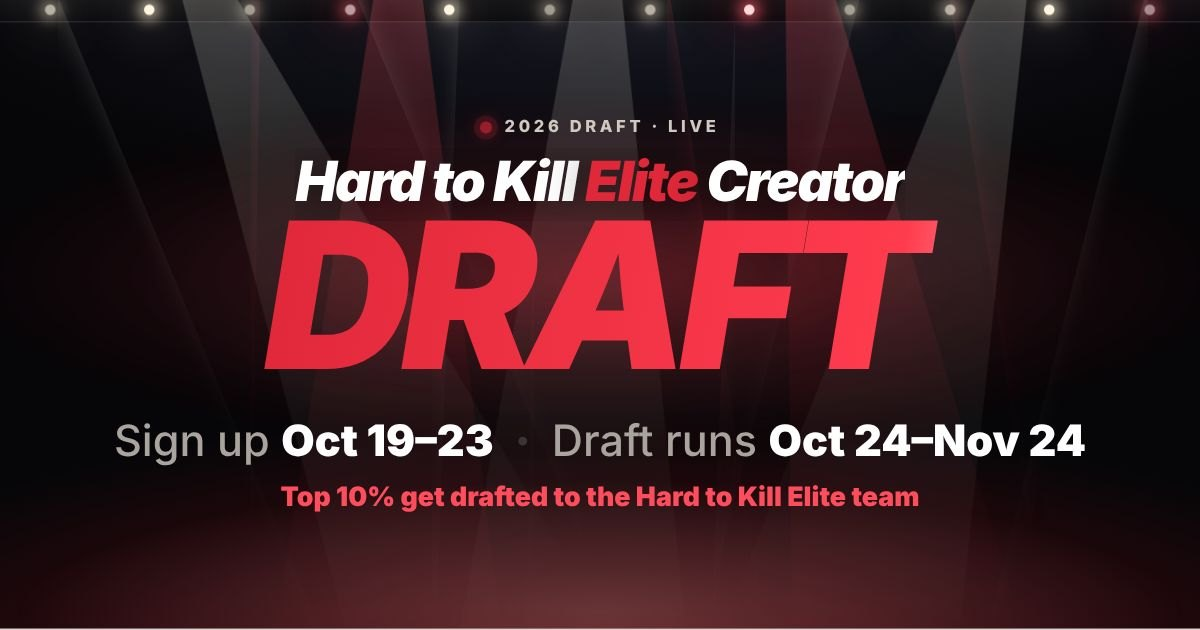
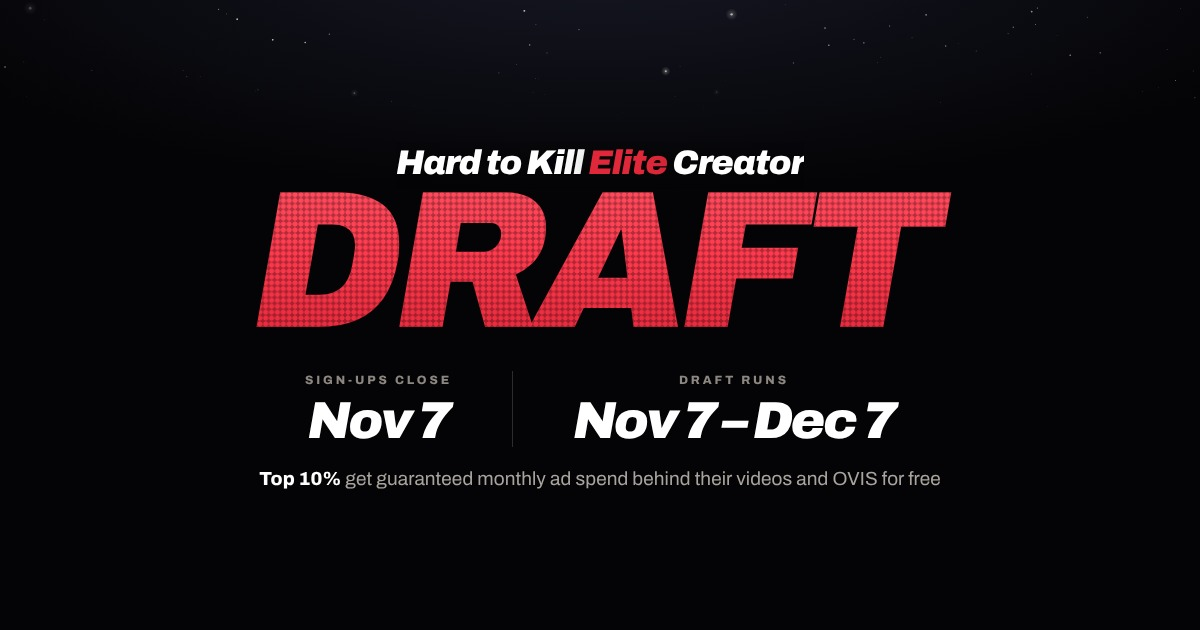
Add files via upload

diff --git a/index.html b/index.html
@@ -4,12 +4,12 @@
 <title>Hard to Kill Elite Creator Draft</title>
 <meta charset="utf-8">
 <meta name="viewport" content="width=device-width,initial-scale=1,viewport-fit=cover">
-<meta name="description" content="Sign up Oct 19–23 · Draft runs Oct 24–Nov 24 · Top 10% get drafted to the Hard to Kill Elite team.">
+<meta name="description" content="Sign-ups close Nov 7 · Draft runs Nov 7–Dec 7 · Top 10% get guaranteed monthly ad spend and OVIS free.">
 <meta name="theme-color" content="#e0283a">
 <meta property="og:type" content="website">
 <meta property="og:site_name" content="Hard to Kill Creators">
 <meta property="og:title" content="Hard to Kill Elite Creator Draft">
-<meta property="og:description" content="Sign up Oct 19–23 · Draft runs Oct 24–Nov 24 · Top 10% get drafted to the Hard to Kill Elite team.">
+<meta property="og:description" content="Sign-ups close Nov 7 · Draft runs Nov 7–Dec 7 · Top 10% get guaranteed monthly ad spend and OVIS free.">
 <meta property="og:image" content="https://hardtokill-draft.vercel.app/og.jpg">
 <meta property="og:image:width" content="1200"><meta property="og:image:height" content="630">
 <meta property="og:url" content="https://hardtokill-draft.vercel.app/">
@@ -797,6 +797,103 @@ p,li,.lead{text-wrap:pretty}
   .facts2 span{white-space:nowrap!important}
   .truss{height:16px}.truss i{width:7px;height:7px}
 }
+.gallery{grid-template-columns:repeat(2,minmax(0,1fr))}
+@media (min-width:821px){.gallery{max-width:640px;margin-inline:auto}}
+.ideas p.more{font-size:15px;line-height:1.5;font-weight:500;color:#5a5551;max-width:56ch}
+.ideas p.more b{font-weight:700;color:var(--fg)}
+
+/* v70: hero dates, numbered steps, spacing polish */
+.dates{display:flex;justify-content:center;align-items:flex-end;gap:clamp(22px,4vw,56px);text-align:center;margin-top:6px}
+.dates>div{display:grid;gap:6px;justify-items:center}
+.dates>div+div{border-left:1px solid rgba(255,255,255,.2);padding-left:clamp(22px,4vw,56px)}
+.dates small{font-size:clamp(11px,1.2vw,13px);font-weight:700;letter-spacing:.18em;text-transform:uppercase;color:#a9a49e}
+.dates b{font-style:italic;font-weight:900;letter-spacing:-.045em;line-height:1;font-size:clamp(30px,5.4vw,60px);color:#fff;white-space:nowrap}
+.facts2.perk{margin-top:4px}
+.facts2.perk span{white-space:normal;text-align:center;text-wrap:balance;max-width:44ch}
+.hero{gap:clamp(14px,2vw,22px)}
+@media (max-height:440px) and (min-aspect-ratio:3/2){.dates b{font-size:min(5vw,9vh)}.dates small{font-size:min(1.4vw,2.6vh)}.facts2.perk{font-size:min(2vw,4vh)}}
+.tips.nl{counter-reset:n}
+.tips.nl li{counter-increment:n}
+.tips.nl li::before{content:counter(n);background:none;width:auto;height:auto;border-radius:0;top:0;left:0;color:var(--red);font-style:italic;font-weight:900;font-size:1em;line-height:inherit}
+.tips.nl li{padding-left:26px}
+section.s h2+.lead{margin-bottom:6px}
+.vcard{padding:clamp(24px,3.2vw,36px)}
+.vcard .tips,.vcard .tips.wide{padding-left:44px}
+.vcard.wide{gap:28px}
+.ideas{gap:16px}
+.ideas p.more{margin-top:2px}
+.bonus{margin-top:2px}
+.cards{gap:clamp(14px,2vw,22px)}
+.dates small{white-space:nowrap}
+@media (max-width:540px){.dates small{letter-spacing:.1em;font-size:10.5px}.dates{gap:20px}.dates>div+div{padding-left:20px}}
+@media (min-width:900px){.cards{grid-template-columns:repeat(3,minmax(0,1fr))}.vcard.wide .tips.wide.nl{grid-template-columns:repeat(3,minmax(0,1fr))}}
+.nocount{max-width:56ch}
+.arena .facts2.perk{margin-top:10px;color:#cfc9c2;font-size:clamp(16px,1.6vw,18px);font-weight:400;letter-spacing:.005em;line-height:1.5}
+.arena .facts2.perk b{color:#fff;font-weight:800}
+.arena .facts2.perk span{max-width:38ch}
+
+/* v80: minimal premium hero */
+.arena .beam.b1,.arena .beam.b5,.arena .beam.b2,.arena .beam.b4{display:none}
+.arena .beam.b3{opacity:.32}
+.arena .haze{opacity:.5}
+.arena .halo{opacity:.7}
+.arena .hero{gap:0;padding-block:clamp(88px,15vh,150px) clamp(72px,11vh,120px);align-items:center}
+.arena .d-pre{font-size:clamp(22px,3.4vw,40px);letter-spacing:-.03em;opacity:.95}
+.arena .draft-h{margin-bottom:clamp(36px,6vh,64px)}
+.arena .dates{margin-top:0;gap:clamp(28px,5vw,72px)}
+.arena .dates>div+div{padding-left:clamp(28px,5vw,72px);border-left-color:rgba(255,255,255,.16)}
+.arena .dates small{font-size:clamp(10.5px,1vw,12px);letter-spacing:.24em;color:#8d8781}
+.arena .dates b{font-size:clamp(32px,5.6vw,64px)}
+.arena .facts2.perk{margin-top:clamp(22px,3.4vh,34px);color:#a9a49e;font-size:clamp(15px,1.4vw,17px)}
+.arena .facts2.perk b{color:#fff;font-weight:700}
+.arena .row{margin-top:clamp(44px,8vh,80px)}
+.arena .cd-wrap{gap:14px}
+.arena .cd-lbl{font-size:11px;font-weight:700;letter-spacing:.24em;text-transform:uppercase;color:#8d8781}
+.arena .cd{gap:0}
+.arena .cd div{background:none;border:0;box-shadow:none;border-radius:0;padding:0 clamp(16px,2.6vw,30px);min-width:0}
+.arena .cd div+div{border-left:1px solid rgba(255,255,255,.14)}
+.arena .cd b{font-size:clamp(28px,3.6vw,40px);font-weight:800;letter-spacing:-.03em}
+.arena .cd small{margin-top:6px;font-size:9.5px;letter-spacing:.2em;color:#6f6a65}
+@media (max-width:540px){.arena .cd div{min-width:0;padding:0 14px}.arena .hero{padding-block:84px 64px}}
+.arena .beam.b3{display:none}
+.arena .facts2.perk span{max-width:62ch}
+@media (max-width:540px){.arena .facts2.perk span{max-width:30ch}}
+.arena .facts2.perk span{max-width:80ch}
+@media (max-width:540px){
+  .arena .facts2.perk span{max-width:30ch}
+  .arena .dates{gap:16px}
+  .arena .dates>div+div{padding-left:16px}
+  .arena .dates b{font-size:26px}
+  .arena .dates small{letter-spacing:.14em;font-size:9.5px}
+}
+
+/* v90: starlit roof + LED scoreboard DRAFT */
+.arena{background:radial-gradient(90% 55% at 50% -8%,#161824 0%,transparent 70%),#040406}
+.arena .halo,.arena .floor,.arena .haze,.arena .flashes{display:none}
+.stars{position:absolute;left:0;top:0;width:100%;height:160px;display:block;-webkit-mask-image:linear-gradient(#000 0%,#000 55%,transparent 100%);mask-image:linear-gradient(#000 0%,#000 55%,transparent 100%)}
+.arena .d-big{
+  font-size:clamp(88px,22vw,232px);
+  --px:max(4px,.03em);
+  background-image:
+    radial-gradient(circle at 50% 50%,rgba(0,0,0,0) 0 56%,rgba(0,0,0,.3) 66%),
+    linear-gradient(180deg,#ff4d5f 0%,#ff3a4e 45%,#e3283b 100%);
+  background-size:var(--px) var(--px),100% 100%;
+  background-position:0 0,0 0;
+  background-repeat:repeat,no-repeat;
+  -webkit-background-clip:text;background-clip:text;color:transparent;-webkit-text-fill-color:transparent;
+  animation:rise 1.1s var(--ease) .12s both;
+}
+@media (prefers-reduced-motion:reduce){.arena .d-big{animation:none}}
+@media (max-width:540px){.arena .d-big{font-size:25vw;--px:max(3px,.034em)}}
+.arena .hero{padding-block:clamp(130px,22vh,210px) clamp(56px,8vh,96px)}
+@media (max-width:540px){.arena .hero{padding-block:120px 56px}}
+
+/* v95: step 3 phones centered at every width */
+.vcard.wide .gallery{display:grid;grid-template-columns:repeat(2,minmax(0,1fr));max-width:640px;margin-inline:auto;justify-items:center;justify-content:center;gap:clamp(16px,4vw,56px);overflow:visible;padding-bottom:0}
+.vcard.wide .gi{flex:none;min-width:0}
+.vcard.wide .gi .phone{zoom:.82}
+@media (max-width:820px){.vcard.wide .gallery{max-width:520px}.vcard.wide .gi .phone{zoom:.64}}
+@media (max-width:540px){.vcard.wide .gallery{gap:12px}.vcard.wide .gi .phone{zoom:.47}}
 </style>
 </head>
 <body>
@@ -812,26 +909,23 @@ p,li,.lead{text-wrap:pretty}
 
 <section class="arena" id="arena">
   <div class="stage" aria-hidden="true">
-    <div class="truss"><i></i><i></i><i></i><i></i><i></i><i></i><i></i><i></i><i></i><i></i><i></i><i></i></div>
+    <canvas class="stars" id="stars"></canvas>
+    
     <div class="beam b1"></div><div class="beam b2"></div><div class="beam b3"></div><div class="beam b4"></div><div class="beam b5"></div>
     <div class="haze"></div>
     <div class="halo"></div>
     <div class="floor"></div>
-    <div class="flashes" id="flashes"></div>
   </div>
 <div class="wrap">
   <div class="hero">
-    <span class="members fade">🔒 Only for the Hard to Kill Creator team</span>
-    <span class="dnight fade"><i></i>2026 Draft · Live</span>
     <h1 class="draft-h" aria-label="Hard to Kill Elite Creator Draft">
       <span class="line"><span class="mv" id="mv1"><span class="in d-pre">Hard to Kill <span class="red">Elite</span> Creator</span></span></span>
       <span class="line l2 d-line"><span class="mv" id="mv2"><span class="in d-big">Draft</span></span></span>
     </h1>
-    <p class="cash fade">Turn the UGC videos you already make into extra cash flow.</p>
-    <p class="facts2 fade"><span>Sign up <b>Oct&nbsp;19–23</b></span><i>·</i><span>Draft runs <b>Oct&nbsp;24–Nov&nbsp;24</b></span><i>·</i><span><b class="red">Top 10% get drafted to the Hard to Kill Elite team</b></span></p>
+    <div class="dates fade"><div><small>Sign-ups close</small><b>Nov&nbsp;7</b></div><div><small>Draft runs</small><b>Nov&nbsp;7 – Dec&nbsp;7</b></div></div>
+    <p class="facts2 perk fade"><span><b>Top 10%</b> get guaranteed monthly ad spend behind their videos and OVIS for free</span></p>
     <div class="row fade">
       <div class="cd-wrap">
-        <span class="otc"><i></i>On the clock</span>
         <span class="cd-lbl" id="cd-lbl">Sign-ups open in</span>
         <div class="cd">
           <div><b id="cd-d"><span>00</span></b><small>Days</small></div>
@@ -866,9 +960,9 @@ p,li,.lead{text-wrap:pretty}
     <span class="kick">Top 10% only</span>
     <h2>What Does a Hard to Kill <span>Elite Creator</span> Get?</h2>
     <div class="perks4">
-      <div class="pk"><span class="num">01</span><h3>Guaranteed paid ad spend on your videos.</h3><p>Every month. A company that bets on you.</p></div>
+      <div class="pk"><span class="num">01</span><h3>Guaranteed monthly ad spend.</h3><p>Behind your videos.</p></div>
       <div class="pk"><span class="num">02</span><h3>OVIS free, indefinitely.</h3><p>As long as you hit the Elite posting schedule.</p></div>
-      <div class="pk"><span class="num">03</span><h3>A sales team closing brand deals for you.</h3><p>They find the brands and close the deals. You create.</p></div>
+      <div class="pk"><span class="num">03</span><h3>A sales team closes brand deals for you.</h3><p>They find the brands. You create.</p></div>
       <div class="pk"><span class="num">04</span><h3>Base pay + bonuses.</h3><p>Starts after 3 months as Elite.</p></div>
     </div>
   </div>
@@ -877,13 +971,13 @@ p,li,.lead{text-wrap:pretty}
 <div class="wrap">
   <section class="s" id="join">
     <h2>How to <span class="red">Enter.</span></h2>
-    <p class="lead"><b>Only Hard to Kill community creators can enter.</b> This one's just for us, and everyone on the team is welcome.</p>
+    <p class="lead"><b>Only for Hard to Kill community creators.</b> Everyone on the team is welcome.</p>
 
     <div class="vgrid">
 
       <figure class="vcard">
         <figcaption><span class="vn">1</span><div><b>Create a new Instagram account.</b></div></figcaption>
-        <ul class="tips"><li>Brand-new and <b>public</b>. Not your personal page.</li><li>Example: Jordan → <b>@jordan.htk</b></li><li>Go Elite and it becomes your <b>sponsored account</b>.</li></ul>
+        <ul class="tips nl"><li>Brand new and <b>public</b>, not your personal page.</li><li>Example: Jordan → <b>@jordan.htk</b></li><li>Go Elite and it becomes your <b>sponsored account</b>.</li></ul>
         <div class="stagex"><div class="phone"><div class="screen light">
           <div class="sbar"><span>9:41</span><span class="sb-r"><i></i><i></i><i></i></span></div><div class="island"></div>
           <div class="ig-top"><b>jordan.htk</b><span>⌄</span></div>
@@ -901,7 +995,7 @@ p,li,.lead{text-wrap:pretty}
 
       <figure class="vcard">
         <figcaption><span class="vn">2</span><div><b>Say you're in on Discord.</b></div></figcaption>
-        <ul class="tips"><li>Open Discord → <b>#elite</b>.</li><li>Post <b>I'm in ✅ @yourhandle</b></li><li>Sign-ups open <b>Mon, Oct&nbsp;19, 5:00&nbsp;PM ET</b> and close <b>Fri, Oct&nbsp;23, 11:59&nbsp;PM ET.</b> The draft starts <b>Sat, Oct&nbsp;24, 8:00&nbsp;AM ET</b> and runs one month. Points count from then.</li></ul>
+        <ul class="tips nl"><li>Open Discord → <b>#elite</b>.</li><li>Post <b>I'm in ✅ @yourhandle</b></li><li>Sign-ups close <b>Sat, Nov&nbsp;7, 11:59&nbsp;PM ET</b>. The draft runs <b>Nov&nbsp;7–Dec&nbsp;7</b>.</li></ul>
         <div class="copychip"><span id="imin2">I'm in ✅</span><button class="copy" data-copy="imin2" type="button">Copy</button></div>
         <div class="stagex"><div class="phone"><div class="screen dark chat">
           <div class="sbar"><span>9:41</span><span class="sb-r"><i></i><i></i><i></i></span></div><div class="island"></div>
@@ -919,7 +1013,7 @@ p,li,.lead{text-wrap:pretty}
 
       <figure class="vcard wide">
         <figcaption class="top"><span class="vn">3</span><div><b>Post about OVIS on Instagram.</b></div></figcaption>
-        <ul class="tips wide four"><li>From <b>Sat, Oct&nbsp;24</b> through <b>Nov&nbsp;24</b></li><li>Every post is about <b>OVIS</b></li><li>Ask viewers to comment <b>"OVIS"</b></li><li>Add <b>#ad</b> to every post</li></ul>
+        <ul class="tips wide four"><li>Post about <b>OVIS</b> and ask viewers to comment <b>"OVIS"</b></li><li>Post <b>1–3 Reels</b> and <b>1–3 Stories</b> a week to stay in the draft</li></ul>
         <div class="gallery">
           <div class="gi">
             <div class="phone"><div class="screen reel">
@@ -929,9 +1023,9 @@ p,li,.lead{text-wrap:pretty}
               <div class="reel-ugc" role="img" aria-label="Creator talking to camera"></div>
               <div class="reel-hook"><span>this AI grows your IG</span><span>while you sleep 🤯</span></div>
               <div class="reel-rail"><span><svg viewBox="0 0 24 24" width="22" height="22" fill="none" stroke="currentColor" stroke-width="2"><path d="M12 20s-7-4.5-7-10a4 4 0 0 1 7-2.6A4 4 0 0 1 19 10c0 5.5-7 10-7 10z"/></svg><small>2.4K</small></span><span><svg viewBox="0 0 24 24" width="22" height="22" fill="none" stroke="currentColor" stroke-width="2" stroke-linejoin="round"><path d="M21 12a8 8 0 0 1-11.6 7.1L4 20.5l1.4-5A8 8 0 1 1 21 12z"/></svg><small>318</small></span><span><svg viewBox="0 0 24 24" width="22" height="22" fill="none" stroke="currentColor" stroke-width="2" stroke-linejoin="round"><path d="M22 3 11 14"/><path d="M22 3 15 21l-4-7-7-4z"/></svg><small>96</small></span></div>
-              <div class="reel-cap"><b>jordan.htk</b><span>Comment <b>OVIS</b> for the link 👇 #ad</span></div>
+              <div class="reel-cap"><b>jordan.htk</b><span>Comment <b>OVIS</b> for the link 👇</span></div>
             </div></div>
-            <div class="gl"><b>Reel</b><span>Every day</span></div>
+            <div class="gl"><b>Reel</b><span>1–3 a week</span></div>
           </div>
           <div class="gi">
             <div class="phone"><div class="screen story">
@@ -945,32 +1039,20 @@ p,li,.lead{text-wrap:pretty}
               <div class="st-sticker glass">Comment <b>OVIS</b> on my reel 👇</div>
               <div class="st-input">Send message</div>
             </div></div>
-            <div class="gl"><b>Story</b><span>Every other day</span></div>
-          </div>
-          <div class="gi">
-            <div class="phone"><div class="screen light feed">
-              <div class="sbar"><span>9:41</span><span class="sb-r"><i></i><i></i><i></i></span></div><div class="island"></div>
-              <div class="fd-head"><span class="av sm g1">J</span><b>jordan.htk</b><span class="plat ig inhead">📸 Instagram</span></div>
-              <div class="fd-slide photo"><span class="fd-n">1/5</span><span class="fd-cap2"><span>5 ways an AI agent</span><span>grows your IG 📈</span></span></div>
-              <div class="fd-dots"><i class="on"></i><i></i><i></i><i></i><i></i></div>
-              <div class="fd-acts"><svg viewBox="0 0 24 24" width="22" height="22" fill="none" stroke="currentColor" stroke-width="2"><path d="M12 20s-7-4.5-7-10a4 4 0 0 1 7-2.6A4 4 0 0 1 19 10c0 5.5-7 10-7 10z"/></svg><svg viewBox="0 0 24 24" width="22" height="22" fill="none" stroke="currentColor" stroke-width="2" stroke-linejoin="round"><path d="M21 12a8 8 0 0 1-11.6 7.1L4 20.5l1.4-5A8 8 0 1 1 21 12z"/></svg><svg viewBox="0 0 24 24" width="22" height="22" fill="none" stroke="currentColor" stroke-width="2" stroke-linejoin="round"><path d="M22 3 11 14"/><path d="M22 3 15 21l-4-7-7-4z"/></svg></div>
-              <div class="fd-cap"><b>jordan.htk</b> Comment <b>OVIS</b> for the link 👇 #ad</div>
-              <div class="tabbar glass"><i class="ti h"></i><i class="ti s"></i><i class="ti p"></i><i class="ti r"></i><i class="ti me"></i></div>
-            </div></div>
-            <div class="gl"><b>Carousel</b><span>Every week</span></div>
+            <div class="gl"><b>Story</b><span>1–3 a week</span></div>
           </div>
         </div>
         <div class="ideas">
-          <p><b>Ideas come from us.</b> We'll drop them in Discord and the Creator Guide. Then make them your own.</p>
+          <p><b>Here are some good ideas.</b> Also check the <b>Creator Guide</b> in Discord for more, or come up with your own.</p>
           <div class="ichips"><span>Skits</span><span>Behind the scenes</span><span>Vlogs</span><span>Street interviews</span><span>Tutorials</span><span>Trends</span><span>Anything</span></div>
-          <p class="more">The more you post, the more chances you have to win.</p>
+          <p class="more">Stay active with 1–3 Reels a week. The more you post, the more people see your call to action and comment <b>"OVIS"</b>, and the more chances you have to win.</p>
         </div>
         <p class="bonus"><b>Bonus:</b> submit your Reels on Trybe and we'll repost them.</p>
       </figure>
 
       <figure class="vcard wide">
         <figcaption><span class="vn">4</span><div><b>Getting "OVIS" comments? Send them to a coach.</b></div></figcaption>
-        <ul class="tips wide"><li>Screenshot the <b>"OVIS" comments</b> on any of your posts.</li><li>Send the screenshot <b>privately to a Hard to Kill coach</b> on Discord.</li><li>We reach out to everyone who commented. <b>You get the points and the</b> <span class="money">$ commission</span>.</li></ul>
+        <ul class="tips wide nl"><li>Screenshot your <b>"OVIS" comments</b>.</li><li>Send it <b>privately to a Hard to Kill coach</b> on Discord.</li><li>We reach out to them. <b>You get the points and the</b> <span class="money">$ commission</span>.</li></ul>
         <div class="pair">
           <div class="phone"><div class="screen light cmts">
             <div class="sbar"><span>9:41</span><span class="sb-r"><i></i><i></i><i></i></span></div><div class="island"></div>
@@ -1006,12 +1088,12 @@ p,li,.lead{text-wrap:pretty}
 
     <div class="score" id="score">
       <h2>How Winners <span class="red">Are Picked.</span></h2>
-      <p class="lead">Two things count. <b>The top 10% of creators with the most points on Nov&nbsp;24 get drafted to the Hard to Kill Elite team.</b> To qualify, follow every step above from start to finish.</p>
+      <p class="lead"><b>The top 10% with the most points on Dec&nbsp;7 get drafted to the Hard to Kill Elite team.</b> Follow every step above to qualify.</p>
       <div class="pts2" id="ladder">
         <div class="p2"><span class="what">Every <b>"OVIS"</b> comment</span><b class="num">1</b><small>point</small></div>
         <div class="p2 hot"><span class="what">Every <b>sale</b></span><b class="num">10</b><small>points</small></div>
       </div>
-      <p class="nocount">When someone who commented on your post buys, <b>you get the points and the</b> <span class="money">$ commission</span>. Likes, shares, views and other comments don't count. No bots. Keep it clean. Draft picks announced <b>Nov&nbsp;25</b>.</p>
+      <p class="nocount">When someone who commented on your post buys, <b>you get the points and the</b> <span class="money">$ commission</span>. Only "OVIS" comments and sales count. No bots. Draft picks announced <b>Dec&nbsp;8</b>.</p>
     </div>
   </section>
 
@@ -1020,13 +1102,8 @@ p,li,.lead{text-wrap:pretty}
     <p class="lead">Win or lose, <b>you're building leverage.</b></p>
     <div class="cards">
       <div class="card">
-        <h3>Run the playbook of a top UGC creator.</h3>
-        <p><b>Poppi, Gymshark and Bloom</b> run some of the most successful UGC campaigns out there. This playbook is modeled on what their creators do.</p>
-      </div>
-      <div class="card">
-        <h3><span class="red">+60%</span> engagement on focused creator accounts.</h3>
-        <p>More engagement means more brands paying attention.</p>
-        <span class="credit">As reported in <em>Forbes</em></span>
+        <h3>Learn the top creator playbook.</h3>
+        <p>Post consistently, ask for the comment, and log your wins. That simple loop is what builds a creator brands want to work with.</p>
       </div>
       <div class="card">
         <h3>The Omni<span class="sky-t">World</span> app, free.</h3>
@@ -1047,7 +1124,7 @@ p,li,.lead{text-wrap:pretty}
 
   <footer>
     <div class="mark" aria-label="hardtokill creators"><span class="a">hardtokill</span><span class="b">creators</span></div>
-    <p class="mission">The community where creators build <b>leverage</b> and a <b>resume that gets them paid.</b> We give you exactly what brands look for. That's your unfair advantage.</p>
+    <p class="mission">The community where creators build <b>leverage</b> and a <b>resume that gets them paid.</b> </p>
   </footer>
 </div>
 
@@ -1059,11 +1136,9 @@ p,li,.lead{text-wrap:pretty}
   function clamp(v,a,b){return Math.max(a,Math.min(b,v))}
   function pad(n){return String(n).padStart(2,"0")}
   var ms=[
-    {t:new Date("2026-10-19T17:00:00-04:00"),l:"Sign-ups open in"},
-    {t:new Date("2026-10-23T23:59:00-04:00"),l:"Sign-ups close in"},
-    {t:new Date("2026-10-24T08:00:00-04:00"),l:"The draft starts in"},
-    {t:new Date("2026-11-24T08:00:00-05:00"),l:"The draft ends in"},
-    {t:new Date("2026-11-25T12:00:00-05:00"),l:"Draft picks announced in"}
+    {t:new Date("2026-11-07T23:59:00-05:00"),l:"Sign-ups close in"},
+    {t:new Date("2026-12-07T23:59:00-05:00"),l:"The draft ends in"},
+    {t:new Date("2026-12-08T12:00:00-05:00"),l:"Draft picks announced in"}
   ];
   function set(id,val){var s=$(id).firstChild;if(s.textContent===val)return;s.textContent=val;if(!reduce){s.classList.remove("tick");void s.offsetWidth;s.classList.add("tick")}}
   function tick(){
@@ -1093,6 +1168,26 @@ p,li,.lead{text-wrap:pretty}
   }
   function onScroll(){if(!ticking){ticking=true;requestAnimationFrame(frame)}}
   addEventListener("scroll",onScroll,{passive:true});frame();
+  
+  (function(){
+    var c=document.getElementById("stars");if(!c||!c.getContext)return;
+    var x=c.getContext("2d"),stars=[],W=0,H=0,dpr=Math.min(2,window.devicePixelRatio||1),vis=true,raf=0,last=0;
+    function mk(t0){var big=Math.random()<.08;return{x:Math.random()*W,t:t0,v:.006+Math.random()*.012,r:big?1.2+Math.random()*.5:.45+Math.random()*.6,a:.45+Math.random()*.55,s:.4+Math.random()*1.2,p:Math.random()*6.28,g:big,w:Math.random()<.18}}
+    function size(){var ar=document.getElementById("arena"),t=document.querySelector(".arena .draft-h");if(ar&&t){var hh=t.getBoundingClientRect().top-ar.getBoundingClientRect().top-6;c.style.height=Math.max(70,Math.round(hh))+"px"}var r=c.getBoundingClientRect();W=r.width;H=r.height;c.width=Math.round(W*dpr);c.height=Math.round(H*dpr);x.setTransform(dpr,0,0,dpr,0,0);
+      var n=Math.round(Math.min(260,Math.max(70,W*H/1500)));stars=[];for(var i=0;i<n;i++)stars.push(mk(Math.random()));draw(0)}
+    function draw(ts){x.clearRect(0,0,W,H);
+      for(var i=0;i<stars.length;i++){var s=stars[i],k=s.t,y=k*H,sc=1-.65*k,fade=k<.08?k/.08:(1-Math.pow(k,3)),tw=reduce?1:(.62+.38*Math.sin(ts/1000*s.s+s.p)),al=s.a*tw*fade,r=s.r*sc;
+        if(al<=0)continue;
+        if(s.g){var g=x.createRadialGradient(s.x,y,0,s.x,y,r*5);g.addColorStop(0,"rgba(255,255,255,.5)");g.addColorStop(1,"rgba(255,255,255,0)");x.globalAlpha=al*.8;x.fillStyle=g;x.beginPath();x.arc(s.x,y,r*5,0,6.283);x.fill()}
+        x.globalAlpha=al;x.fillStyle=s.w?"#ffe9cf":"#ffffff";x.beginPath();x.arc(s.x,y,r,0,6.283);x.fill()}
+      x.globalAlpha=1}
+    function loop(ts){if(!vis||reduce)return;var dt=last?Math.min(.1,(ts-last)/1000):0;last=ts;
+      for(var i=0;i<stars.length;i++){var s=stars[i];s.t+=s.v*dt;if(s.t>=1){stars[i]=mk(0)}}
+      draw(ts);raf=requestAnimationFrame(loop)}
+    size();addEventListener("load",size);if(document.fonts&&document.fonts.ready)document.fonts.ready.then(size);if(!reduce)raf=requestAnimationFrame(loop);
+    var rt;addEventListener("resize",function(){clearTimeout(rt);rt=setTimeout(size,150)});
+    if("IntersectionObserver" in window){new IntersectionObserver(function(es){vis=es[0].isIntersecting;last=0;if(vis&&!reduce){cancelAnimationFrame(raf);raf=requestAnimationFrame(loop)}}).observe(c)}
+  })();
   (function(){var f=$("flashes");if(!f||matchMedia("(prefers-reduced-motion: reduce)").matches)return;
     function pop(){if(document.hidden||window.scrollY>innerHeight){return setTimeout(pop,900)}
       var n=1+Math.floor(Math.random()*2);for(var k=0;k<n;k++){var b=document.createElement("b");b.style.left=(3+Math.random()*94)+"%";b.style.top=(20+Math.random()*70)+"%";f.appendChild(b);setTimeout(function(x){return function(){x.remove()}}(b),600)}
